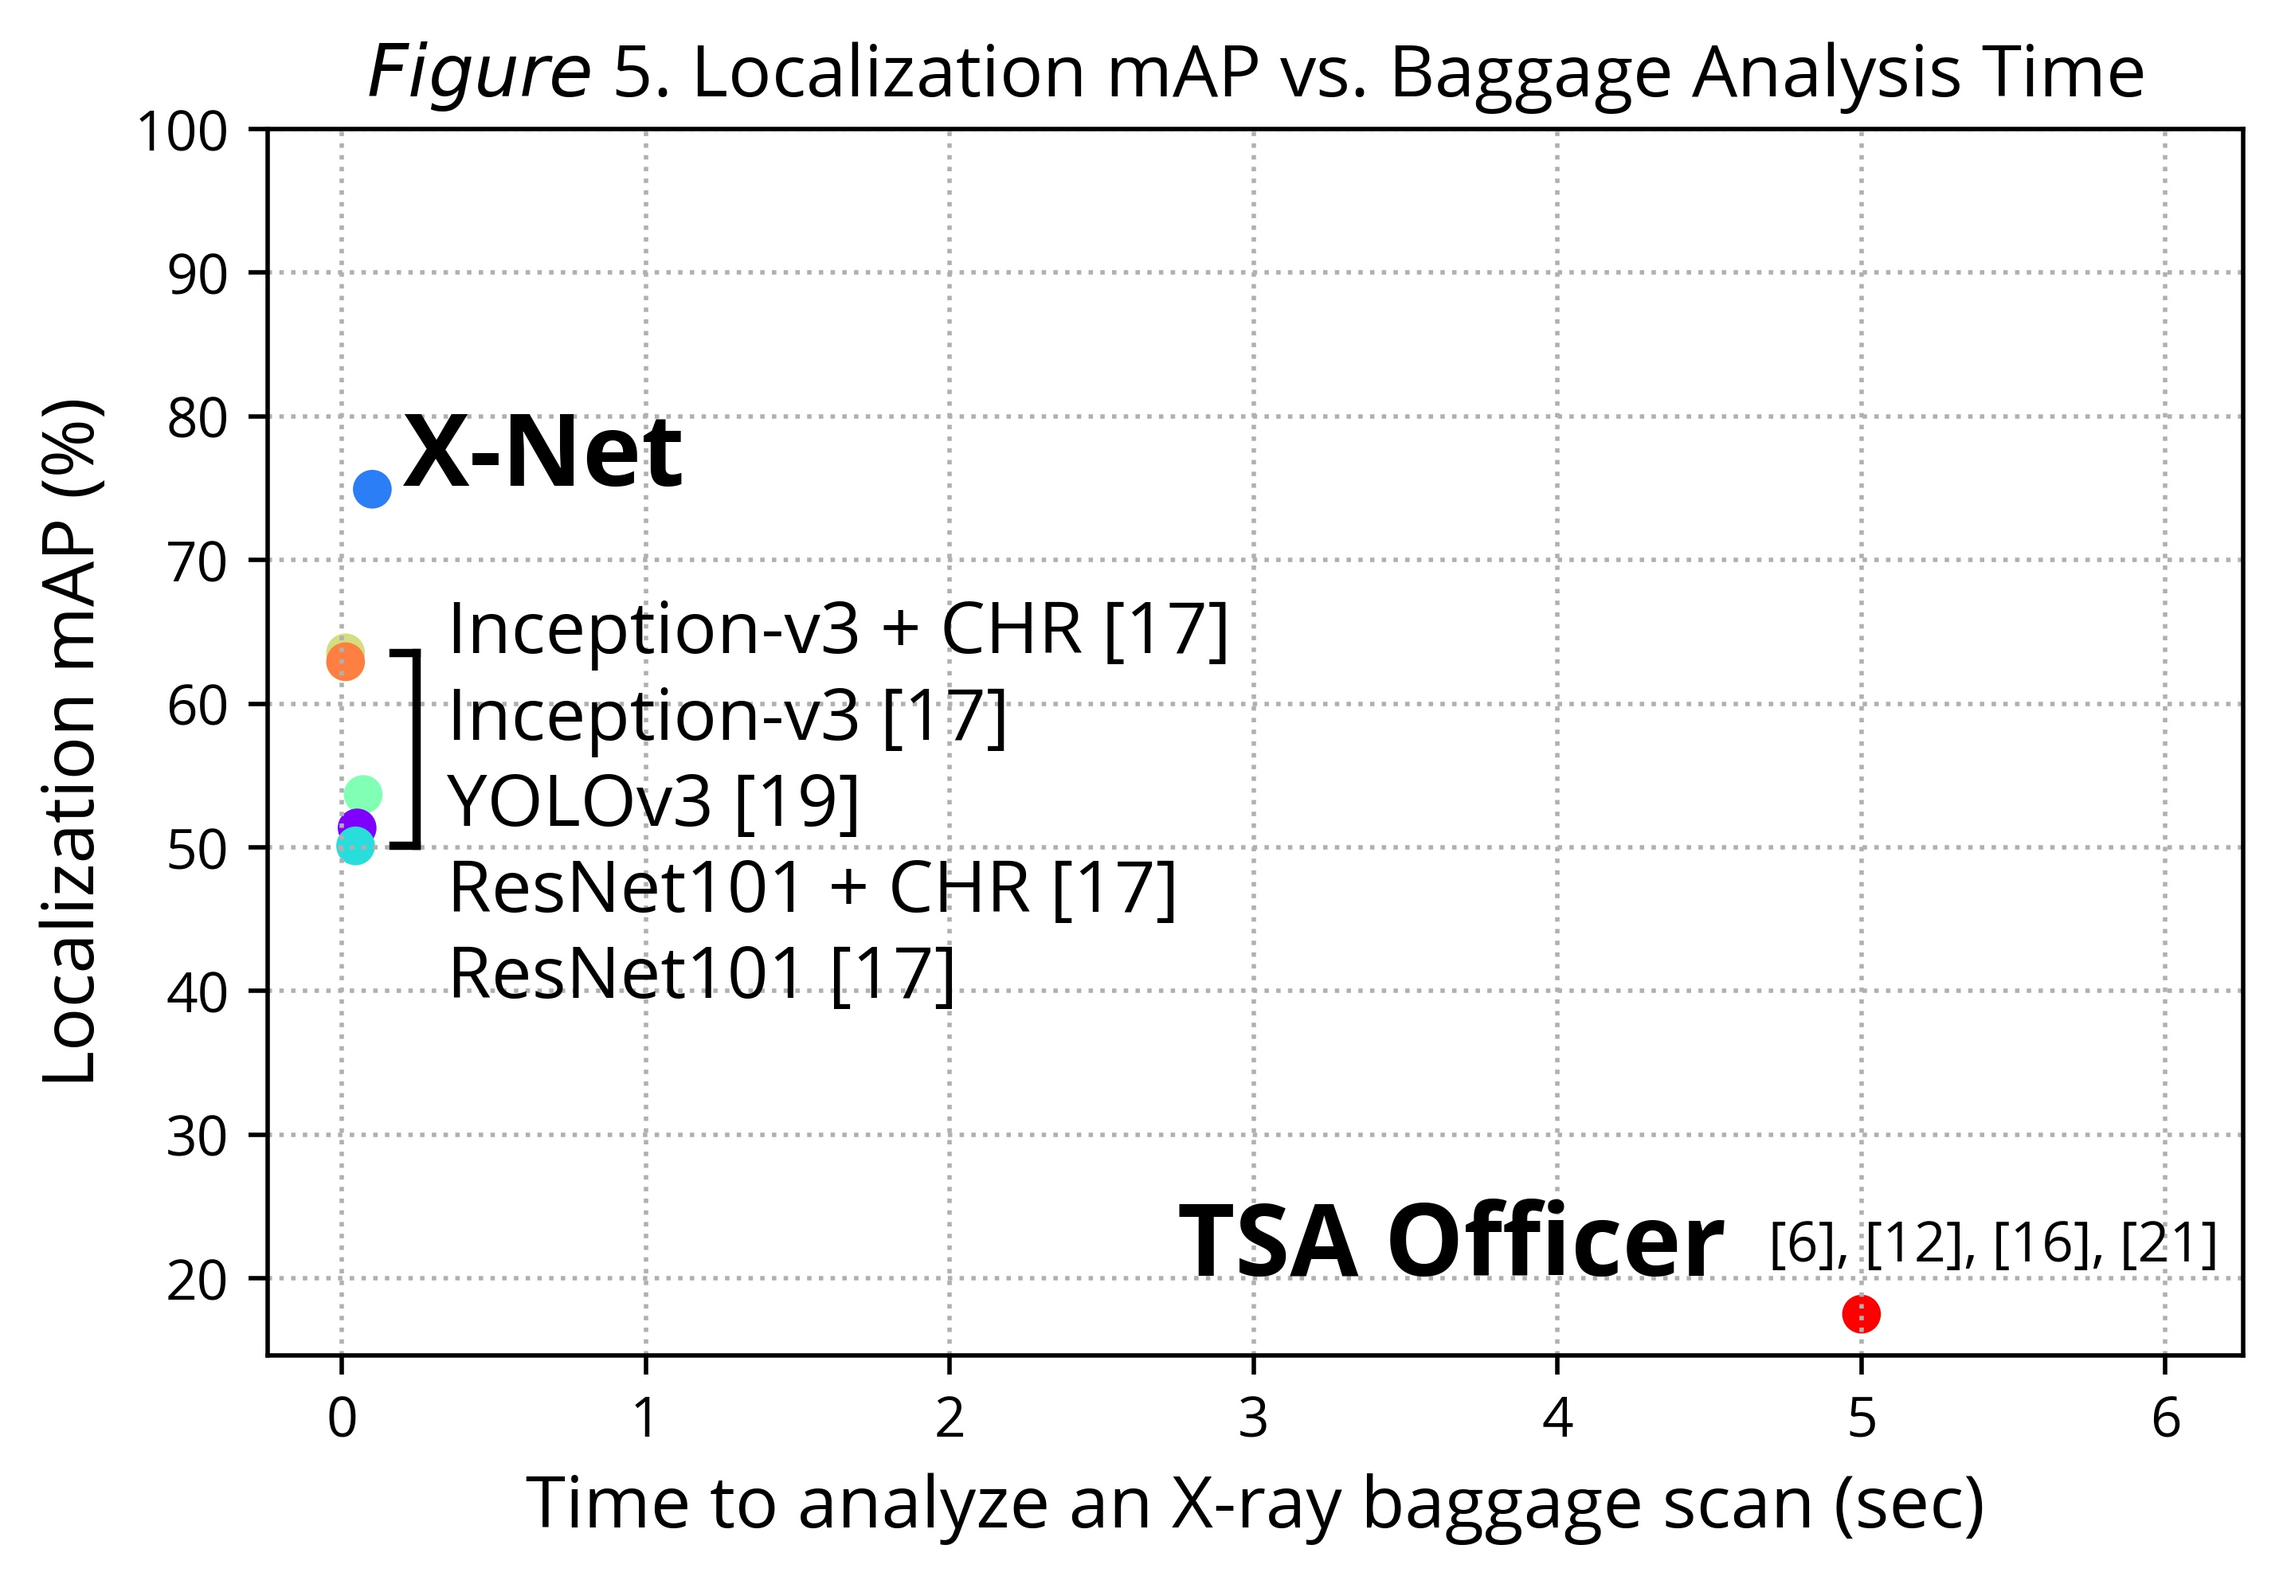
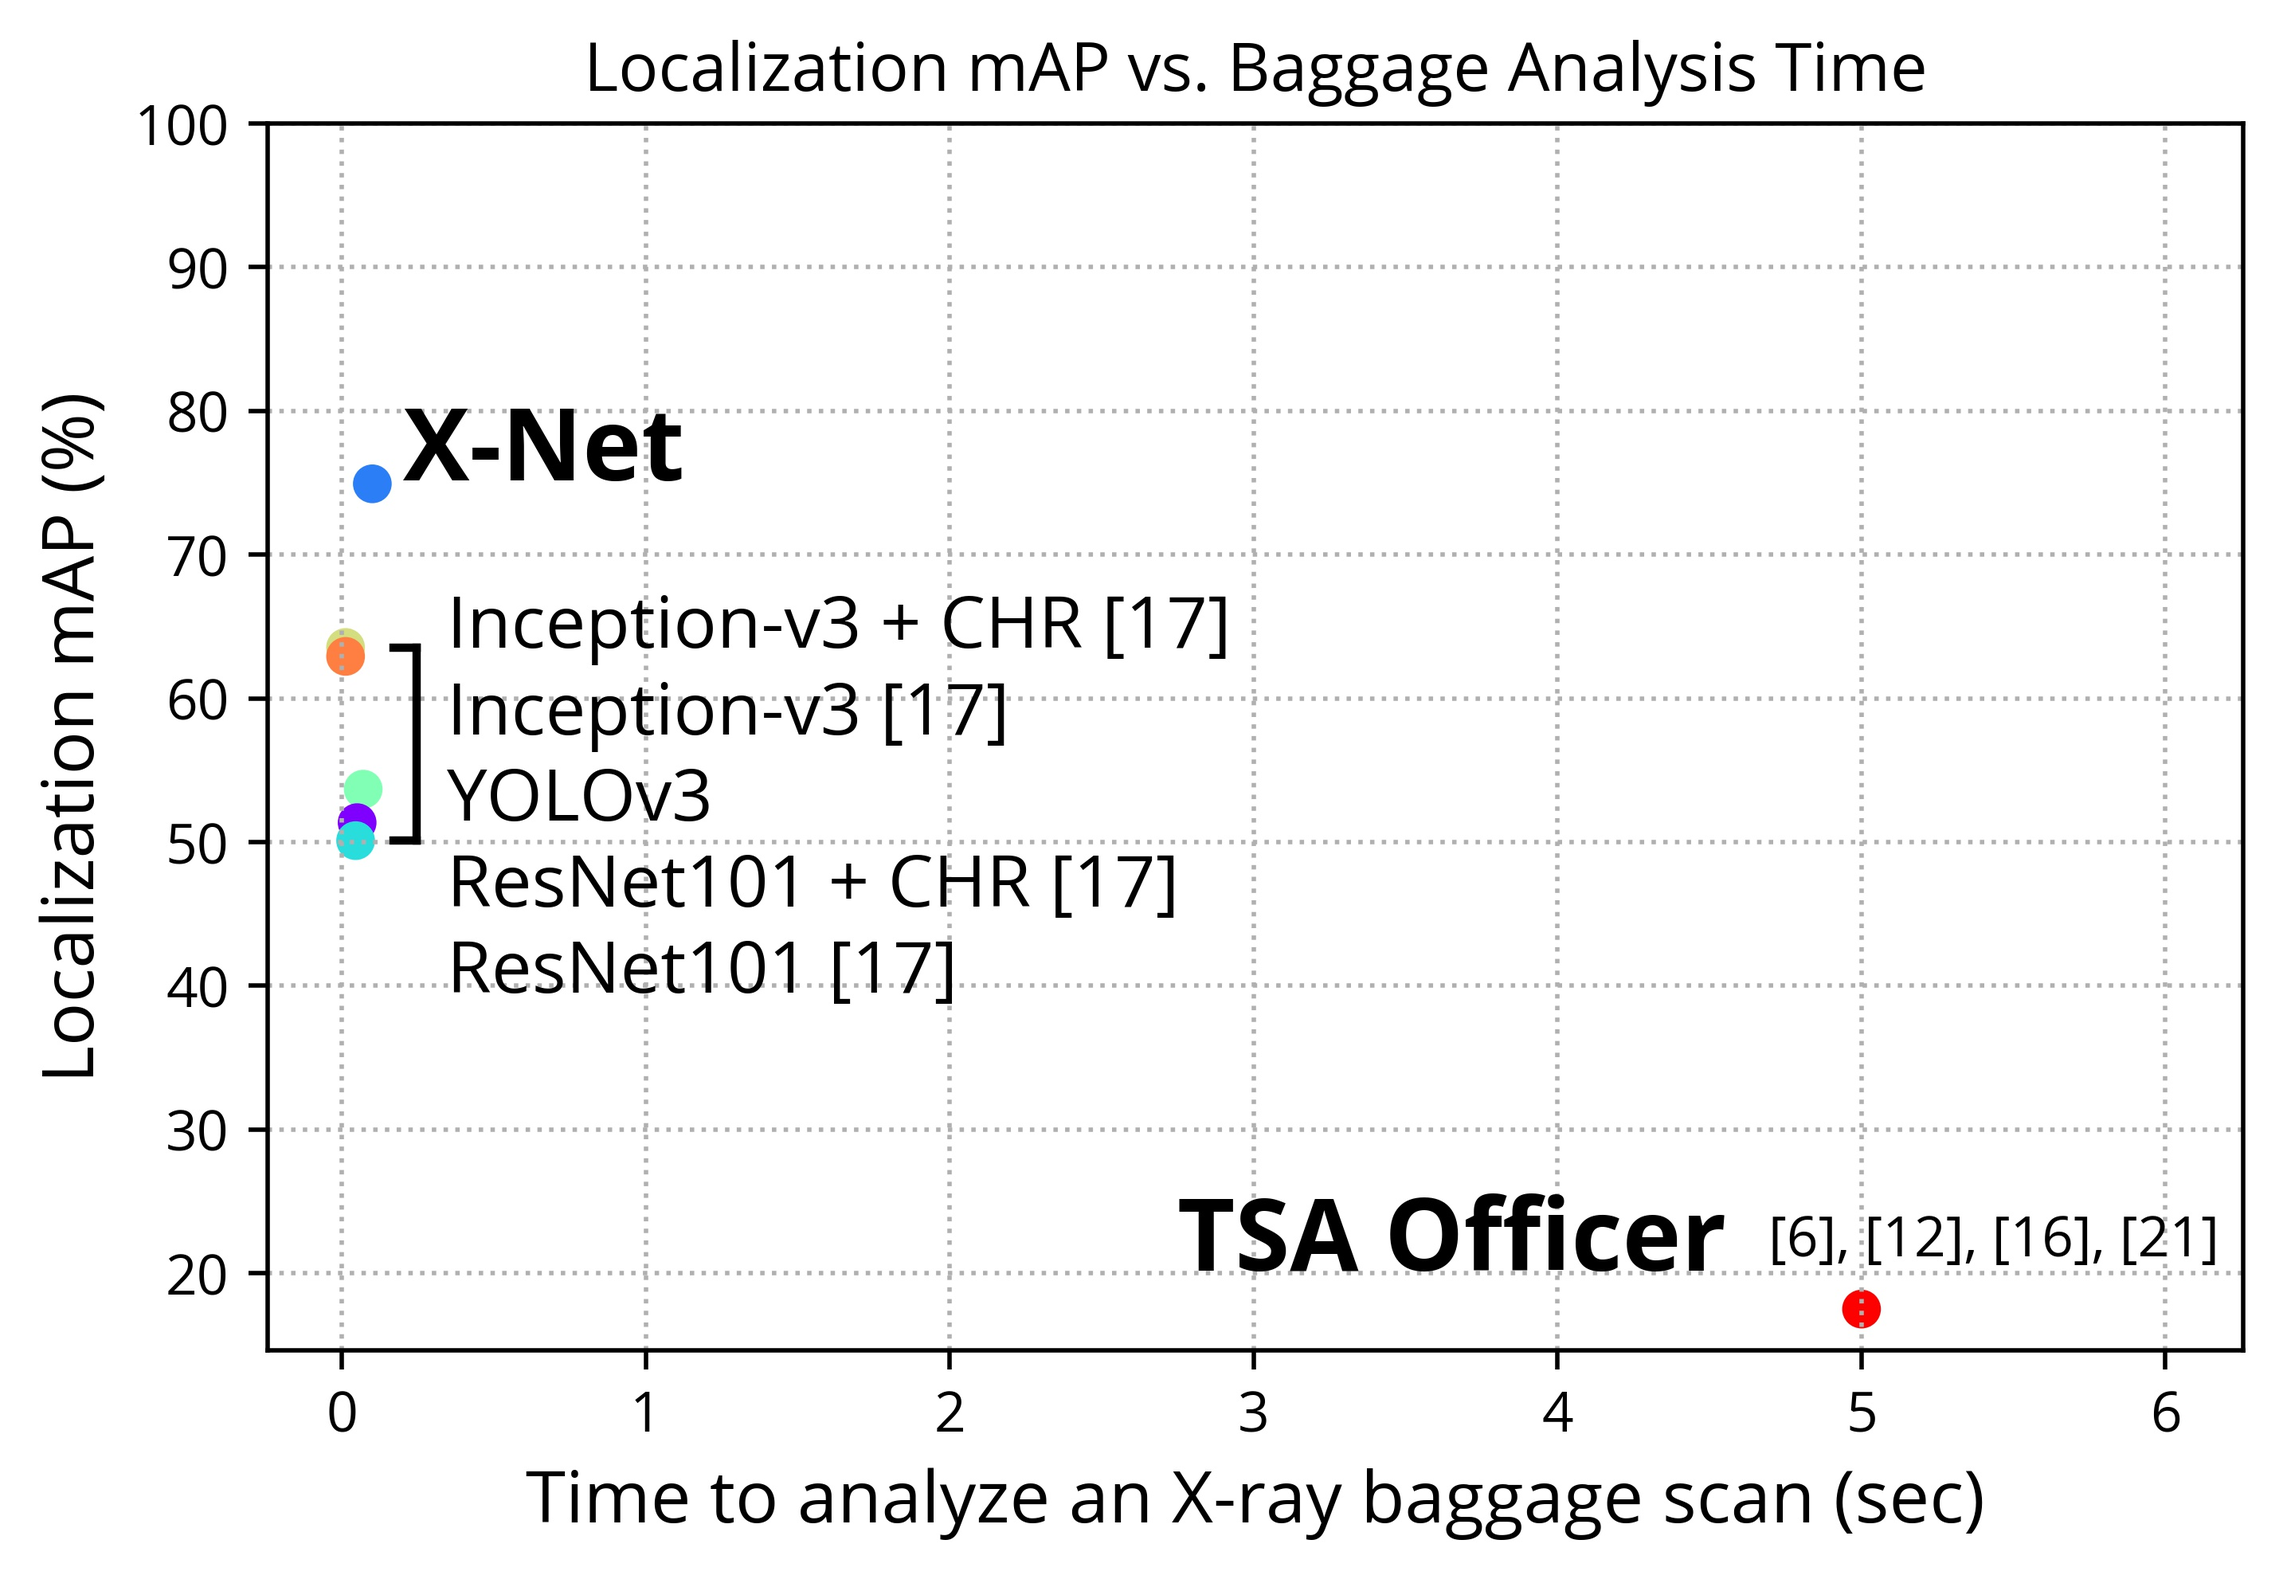
removing figure x. if with_citations

diff --git a/utils/parse.py b/utils/parse.py
@@ -400,11 +400,14 @@ if __name__ == "__main__":
 
     anns = retrieve_annotations(annotated_imgs + "annotations.csv")
 
-    ct = 0
+    ct = {CLASS: 0 for CLASS in CLASSES}
     for file in anns:
         for obj in anns[file]:
-             ct += len(obj)
-    print("Total obj ct: {}".format(ct))
+             ct[CLASSES[int(obj)]] += len(anns[file][obj])
+
+    print("Total threat count:")
+    for obj in ct:
+        print("-> {}: {}".format(obj, ct[obj]))
 
     false_positive = ['P03585.jpg', 'P08758.jpg', 'P04435.jpg', 'P08701.jpg', 'P08833.jpg', 'P08902.jpg', 'P08888.jpg', 'P00673.jpg', 'P07425.jpg', 'P03862.jpg', 'P04107.jpg', 'P08008.jpg', 'P08893.jpg', 'P08025.jpg', 'P02574.jpg', 'P05605.jpg', 'P05528.jpg', 'P05325.jpg', 'P06240.jpg', 'P08466.jpg', 'P07701.jpg', 'P05286.jpg', 'P06239.jpg', 'P08882.jpg', 'P08670.jpg', 'P04504.jpg', 'P08884.jpg', 'P06838.jpg', 'P05493.jpg', 'P08758.jpg', 'P07586.jpg', 'P06409.jpg', 'P08135.jpg', 'P08851.jpg', 'P07687.jpg', 'P07855.jpg', 'P04774.jpg', 'P08857.jpg', 'P08132.jpg', 'P07585.jpg', 'P04578.jpg', 'P07526.jpg', 'P00763.jpg', 'P07219.jpg', 'P04039.jpg', 'P07217.jpg', 'P01920.jpg', 'P06141.jpg', 'P07673.jpg', 'P08788.jpg', 'P06240.jpg', 'P08296.jpg', 'P03470.jpg', 'P08219.jpg', 'P08857.jpg', 'P04361.jpg', 'P08908.jpg', 'P08559.jpg', 'P06156.jpg', 'P00276.jpg', 'P06725.jpg', 'P07218.jpg']
 

diff --git a/utils/visuals.py b/utils/visuals.py
@@ -190,9 +190,12 @@ def plot(results, mode, save_path=None, with_citations=False, font=None):
     # set up grid and plot
     plt.grid(which="major", linestyle=":")
 
-    apa_citation = "$\it{Figure}$ " + ("4" if mode == "classification" else "5")
+    if not with_citations:
+        apa_citation = "$\it{Figure}$ " + ("4" if mode == "classification" else "5")
+        plt.title("{}. {} mAP vs. Baggage Analysis Time".format(apa_citation, mode.title()), fontsize=13)
+    else:
+        plt.title("{} mAP vs. Baggage Analysis Time".format(mode.title(), fontsize=13))
 
-    plt.title("{}. {} mAP vs. Baggage Analysis Time".format(apa_citation, mode.title()), fontsize=13)
     plt.xlabel("Time to analyze an X-ray baggage scan (sec)", fontsize=13)
     plt.ylabel("{} mAP (%)".format(mode.title()), fontsize=13)
 
